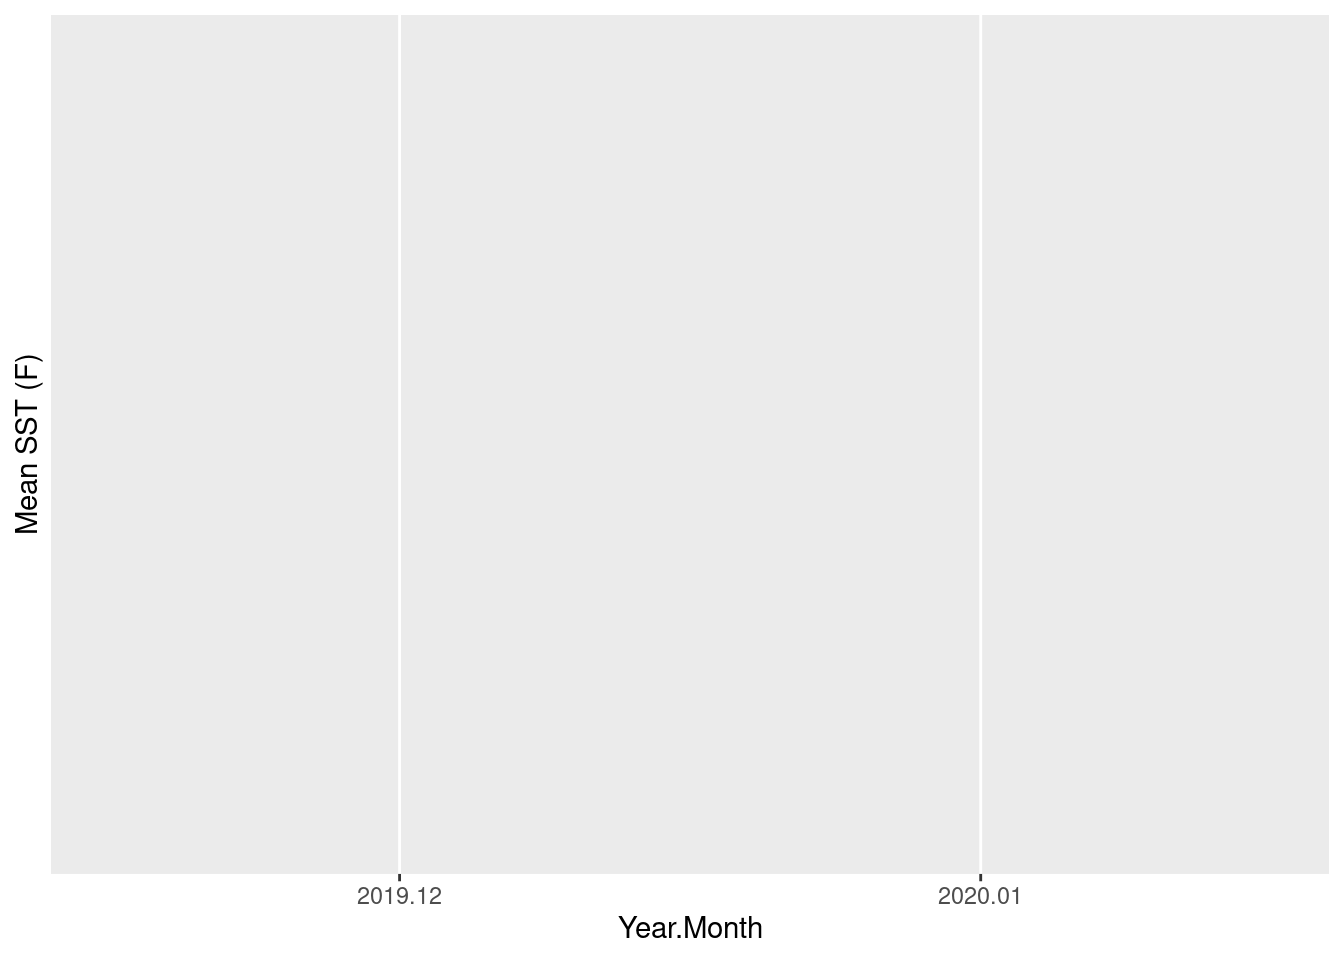
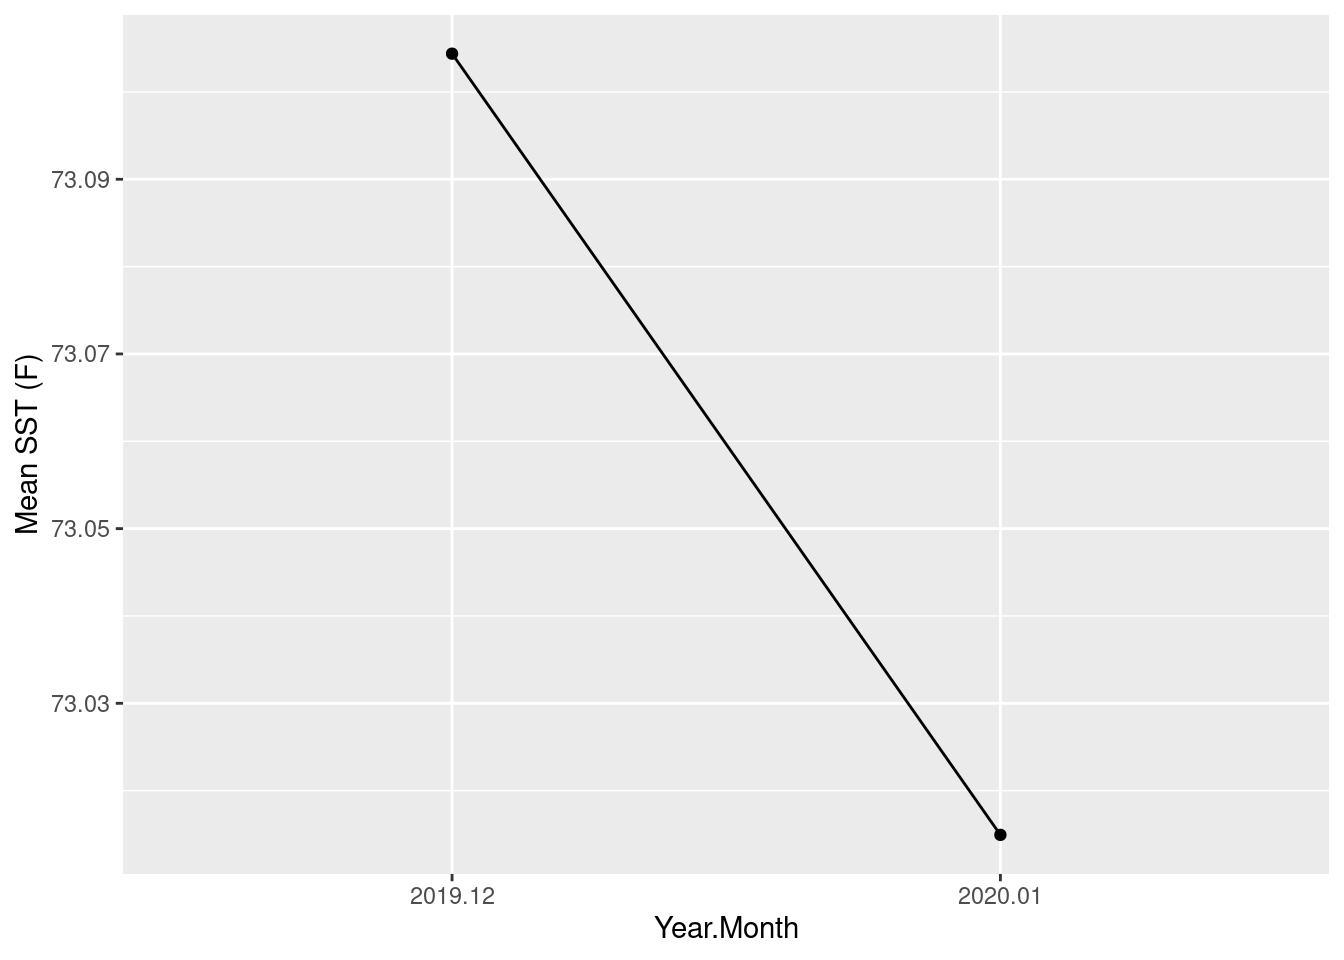
update team page

diff --git a/docs/team.html b/docs/team.html
@@ -412,16 +412,19 @@ function googleTranslateElementInit() {
 </section>
 <section id="sunny-hospital" class="level3">
 <h3 class="anchored" data-anchor-id="sunny-hospital">Sunny Hospital</h3>
-<p><img src="images/Sunny.jpeg" alt="Sunny Hospital" style="width:75%; ; border-radius: 50%;"></p>
+<p><img src="images/Sunny.jpg" alt="Sunny Hospital" style="width:75%; ; border-radius: 50%;"></p>
 <p><a href="https://polarwatch.noaa.gov/">NOAA CoastWatch PolarWatch</a></p>
 <p><a href="https://github.com/shospital">GitHub</a></p>
 </section>
 <section id="matt-grossi" class="level3">
 <h3 class="anchored" data-anchor-id="matt-grossi">Matt Grossi</h3>
+<p><img src="images/matt-head.jpg" alt="Matt Grossi" style="width:75%; ; border-radius: 50%;"></p>
+<p><a href="https://www.fisheries.noaa.gov/">NOAA Fisheries</a></p>
+<p><a href="https://mattgrossi-noaa.github.io/">webpage</a> • <a href="https://github.com/mattgrossi-noaa">GitHub</a> • <a href="https://orcid.org/0000-0002-8550-3189">ORCID</a></p>
 </section>
 <section id="emily-markowitz" class="level3">
 <h3 class="anchored" data-anchor-id="emily-markowitz">Emily Markowitz</h3>
-<p><img src="images/Em.png" alt="Emily Markowitz" style="width:75%; ; border-radius: 50%;"></p>
+<p><img src="images/em.png" alt="Emily Markowitz" style="width:75%; ; border-radius: 50%;"></p>
 <p><a href="https://www.fisheries.noaa.gov/">NOAA Fisheries</a></p>
 <p><a href="https://emilyhmarkowitz.github.io/emilyhmarkowitz">webpage</a> • <a href="https://github.com/EmilyMarkowitz-NOAA">GitHub</a> • <a href="https://www.fisheries.noaa.gov/contact/emily-markowitz">NOAA</a> • <a href="https://orcid.org/0000-0001-5757-4230">ORCID</a></p>
 </section>
@@ -430,18 +433,20 @@ function googleTranslateElementInit() {
 <section id="songzhi-liu" class="level3">
 <h3 class="anchored" data-anchor-id="songzhi-liu">Songzhi Liu</h3>
 <p><img src="images/songzhi.jpg" alt="Songzhi Liu" style="width:75%; ; border-radius: 50%;"></p>
-<p>[NOAA CoastWatch Great Lakes Node](<a href="https://coastwatch.glerl.noaa.gov/">https://www.fisheries.noaa.gov/</a></p>
-<p>[webpage](<a href="https://sssliuum.github.io/">https://github.com/shospital</a></p>
-<p><a href="https://github.com/sssliuum">GitHub</a></p>
+<p><a href="https://coastwatch.glerl.noaa.gov/">NOAA CoastWatch Great Lakes Node</a></p>
+<p><a href="https://sssliuum.github.io/">webpage</a> • <a href="https://github.com/sssliuum">GitHub</a></p>
+</section>
+<section id="dan-pendleton" class="level3">
+<h3 class="anchored" data-anchor-id="dan-pendleton">Dan Pendleton</h3>
+<p><img src="images/dan.jpeg" alt="Dan Pendelton" style="width:75%; ; border-radius: 50%;"></p>
+<p><a href="https://www.fisheries.noaa.gov/">NOAA Fisheries</a></p>
+<p><a href="https://www.researchgate.net/profile/Daniel-Pendleton">webpage</a> • <a href="https://github.com/dep22">GitHub</a> • <a href="https://orcid.org/0000-0001-9341-8841">ORCID</a></p>
 </section>
 <section id="more" class="level3">
 <h3 class="anchored" data-anchor-id="more">More</h3>
 </section>
 <section id="more-1" class="level3">
 <h3 class="anchored" data-anchor-id="more-1">More</h3>
-</section>
-<section id="more-2" class="level3">
-<h3 class="anchored" data-anchor-id="more-2">More</h3>
 </section>
 </div>
 

diff --git a/docs/tutorials/r/3-extract-satellite-data-within-boundary.html b/docs/tutorials/r/3-extract-satellite-data-within-boundary.html
@@ -624,7 +624,7 @@ For this exercise, we will only use the boundary of one province, the Gulf Strea
 <span id="cb17-13"><a href="#cb17-13" aria-hidden="true" tabindex="-1"></a>monthly_mean_rast <span class="ot">&lt;-</span> terra<span class="sc">::</span><span class="fu">tapp</span>(rc_all, ym, <span class="at">fun =</span> mean)</span>
 <span id="cb17-14"><a href="#cb17-14" aria-hidden="true" tabindex="-1"></a></span>
 <span id="cb17-15"><a href="#cb17-15" aria-hidden="true" tabindex="-1"></a><span class="co"># Compute mean across raster grouped by Year-month</span></span>
-<span id="cb17-16"><a href="#cb17-16" aria-hidden="true" tabindex="-1"></a>monthly_means <span class="ot">&lt;-</span> <span class="fu">global</span>(monthly_mean_rast, <span class="at">fun =</span> mean)</span></code><button title="Copy to Clipboard" class="code-copy-button"><i class="bi"></i></button></pre></div>
+<span id="cb17-16"><a href="#cb17-16" aria-hidden="true" tabindex="-1"></a>monthly_means <span class="ot">&lt;-</span> <span class="fu">global</span>(monthly_mean_rast, <span class="at">fun =</span> mean, <span class="at">na.rm=</span><span class="cn">TRUE</span>)</span></code><button title="Copy to Clipboard" class="code-copy-button"><i class="bi"></i></button></pre></div>
 </div>
 </section>
 <section id="convert-raster-into-data-frame" class="level2">
@@ -646,14 +646,6 @@ For this exercise, we will only use the boundary of one province, the Gulf Strea
 <span id="cb19-4"><a href="#cb19-4" aria-hidden="true" tabindex="-1"></a>  <span class="fu">geom_point</span>() <span class="sc">+</span></span>
 <span id="cb19-5"><a href="#cb19-5" aria-hidden="true" tabindex="-1"></a>  <span class="fu">xlab</span>(<span class="st">"Year.Month"</span>) <span class="sc">+</span> </span>
 <span id="cb19-6"><a href="#cb19-6" aria-hidden="true" tabindex="-1"></a>  <span class="fu">ylab</span>(<span class="st">"Mean SST (F)"</span>)</span></code><button title="Copy to Clipboard" class="code-copy-button"><i class="bi"></i></button></pre></div>
-<div class="cell-output cell-output-stderr">
-<pre><code>Warning: Removed 2 rows containing missing values or values outside the scale range
-(`geom_line()`).</code></pre>
-</div>
-<div class="cell-output cell-output-stderr">
-<pre><code>Warning: Removed 2 rows containing missing values or values outside the scale range
-(`geom_point()`).</code></pre>
-</div>
 <div class="cell-output-display">
 <div>
 <figure class="figure">

diff --git a/team.md b/team.md
@@ -72,7 +72,7 @@ title: Our Team
 
 ### Emily Markowitz
 
-<img src="images/Em.png" alt="Emily Markowitz" style="width:75%; ; border-radius: 50%;">
+<img src="images/em.png" alt="Emily Markowitz" style="width:75%; ; border-radius: 50%;">
 
 [NOAA Fisheries](https://www.fisheries.noaa.gov/)
 
@@ -90,14 +90,20 @@ title: Our Team
     
 [NOAA CoastWatch Great Lakes Node](https://coastwatch.glerl.noaa.gov/)
 
-[webpage](https://sssliuum.github.io/) 
-
+[webpage](https://sssliuum.github.io/)  &#x2022;
 [GitHub](https://github.com/sssliuum) 
 
 </div>
 
 <div>
-### More
+
+### Dan Pendleton
+
+<img src="images/dan.jpeg" alt="Dan Pendelton" style="width:75%; ; border-radius: 50%;">
+
+[NOAA Fisheries](https://www.fisheries.noaa.gov/)
+
+[webpage](https://www.researchgate.net/profile/Daniel-Pendleton) &#x2022;  [GitHub](https://github.com/dep22) &#x2022; [ORCID](https://orcid.org/0000-0001-9341-8841)
 
 </div>
 
